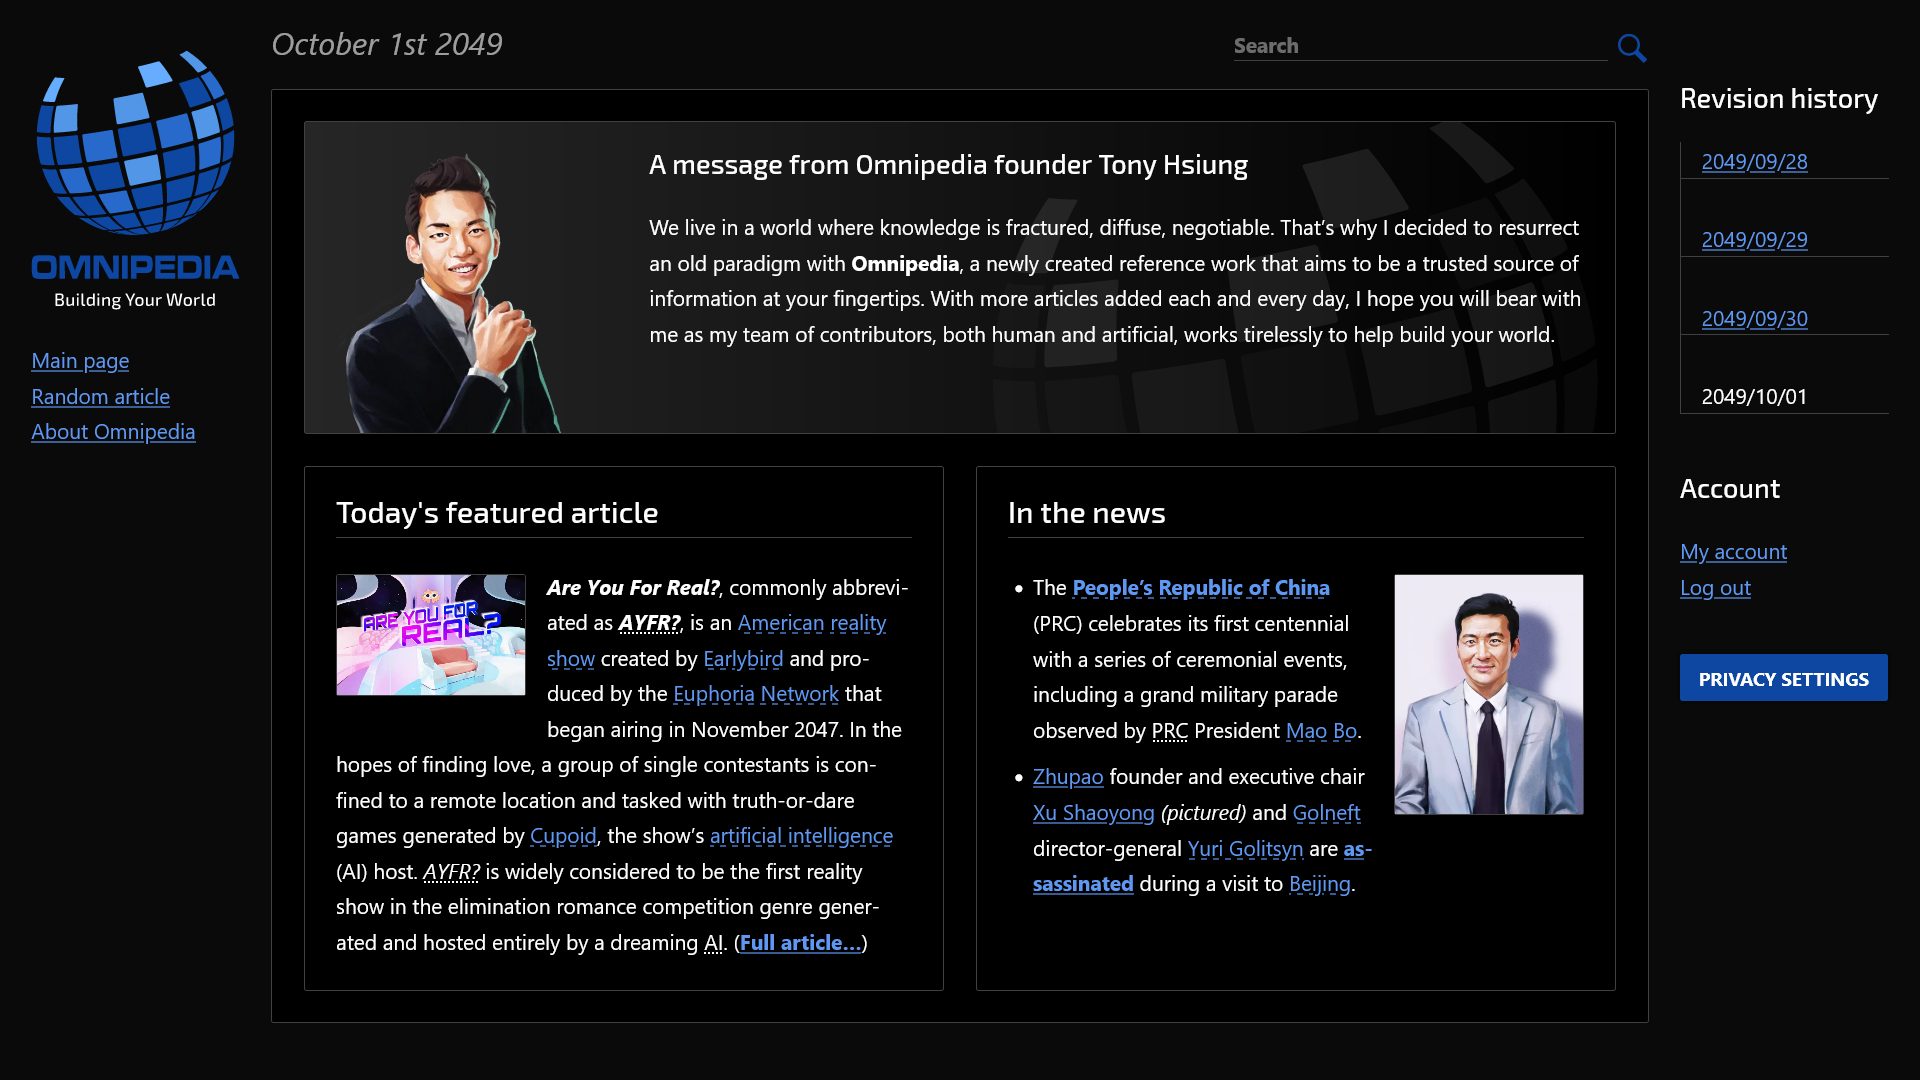
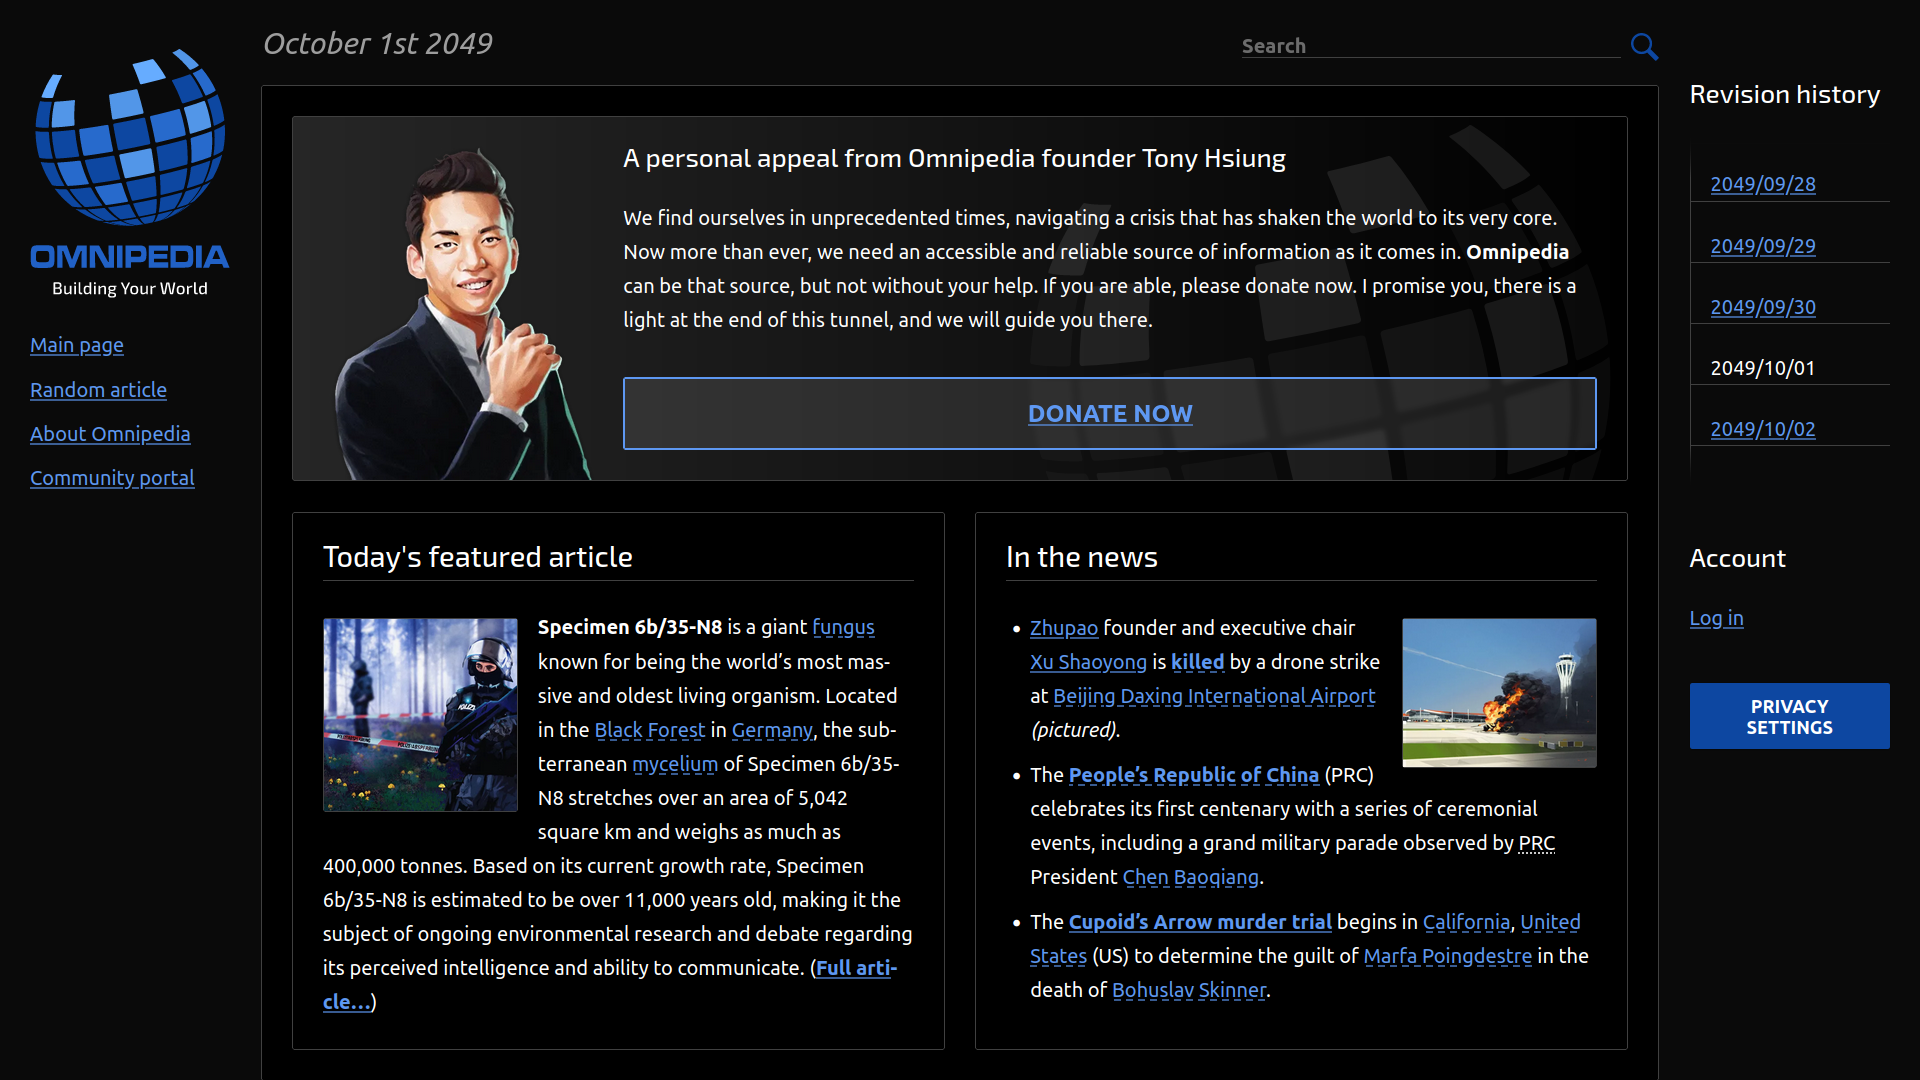
Updated 3 out of 4 Features section screenshots for 2.049 re-release.

diff --git a/web/index.htm b/web/index.htm
@@ -127,11 +127,11 @@
             <h3 class="features-section__heading" id="features-heading-section1" aria-label="Futuristic wiki">Futuristic wiki</h3>
 
             <div class="features-section__media" id="features-media-section1" aria-labelledby="features-media-element-section1">
-              <a href="images/screenshots/optimized/2049-09-28_Main_Page_light.jpg?v=1" class="external-link ambientimpact-is-image-link ambientimpact-link-has-image" target="_blank" rel="noopener noreferrer" data-colour-scheme="light" data-photoswipe-linked-width="1920" data-photoswipe-linked-height="1080">
-                <img src="images/screenshots/thumbnails/2049-09-28_Main_Page_light.jpg?v=1" width="800" height="450" loading="lazy" alt="A screenshot of the Omnipedia main page on September 28th, 2049, in a light colour scheme: a message from the founder, an excerpt of an article, and a few news items of the day." id="features-media-element-section1" />
+              <a href="images/screenshots/optimized/2049-10-01_Main_Page_light.jpg?v=2" class="external-link ambientimpact-is-image-link ambientimpact-link-has-image" target="_blank" rel="noopener noreferrer" data-colour-scheme="light" data-photoswipe-linked-width="1920" data-photoswipe-linked-height="1080">
+                <img src="images/screenshots/thumbnails/2049-10-01_Main_Page_light.jpg?v=2" width="800" height="450" loading="lazy" alt="A screenshot of the Omnipedia main page on October 1st, 2049: a message from the founder, an excerpt of an article, and a few news items of the day." id="features-media-element-section1" />
               </a>
-              <a href="images/screenshots/optimized/2049-09-28_Main_Page_dark.jpg?v=1" class="external-link ambientimpact-is-image-link ambientimpact-link-has-image" target="_blank" rel="noopener noreferrer" data-colour-scheme="dark" data-photoswipe-linked-width="1920" data-photoswipe-linked-height="1080">
-                <img src="images/screenshots/thumbnails/2049-09-28_Main_Page_dark.jpg?v=1" width="800" height="450" loading="lazy" alt="A screenshot of the Omnipedia main page on September 28th, 2049, in a dark colour scheme: a message from the founder, an excerpt of an article, and a few news items of the day." />
+              <a href="images/screenshots/optimized/2049-10-01_Main_Page_dark.jpg?v=2" class="external-link ambientimpact-is-image-link ambientimpact-link-has-image" target="_blank" rel="noopener noreferrer" data-colour-scheme="dark" data-photoswipe-linked-width="1920" data-photoswipe-linked-height="1080">
+                <img src="images/screenshots/thumbnails/2049-10-01_Main_Page_dark.jpg?v=2" width="800" height="450" loading="lazy" alt="A screenshot of the Omnipedia main page on October 1st, 2049: a message from the founder, an excerpt of an article, and a few news items of the day." />
               </a>
             </div>
 
@@ -144,11 +144,11 @@
             <h3 class="features-section__heading" id="features-heading-section2" aria-label="Visionary sci-fi">Visionary sci-fi</h3>
 
             <div class="features-section__media" id="features-media-section2" aria-labelledby="features-media-element-section2">
-              <a href="images/screenshots/optimized/2049-09-29_Cariappa-Muren_disease_light.jpg?v=2" class="external-link ambientimpact-is-image-link ambientimpact-link-has-image" target="_blank" rel="noopener noreferrer" data-colour-scheme="light" data-photoswipe-linked-width="1920" data-photoswipe-linked-height="1080">
-                <img src="images/screenshots/thumbnails/2049-09-29_Cariappa-Muren_disease_light.jpg?v=2" width="800" height="450" loading="lazy" alt="A screenshot of the Omnipedia article on Cariappa-Muren disease on September 29th, 2049, in a light colour scheme: several paragraphs of text alongside a box containing details about the disease; a term is highlighted in the main body with a pop-up displaying a short descriptive paragraph about it." id="features-media-element-section2" />
+              <a href="images/screenshots/optimized/2049-10-01_Cariappa-Muren_disease_light.jpg?v=1" class="external-link ambientimpact-is-image-link ambientimpact-link-has-image" target="_blank" rel="noopener noreferrer" data-colour-scheme="light" data-photoswipe-linked-width="1920" data-photoswipe-linked-height="1080">
+                <img src="images/screenshots/thumbnails/2049-10-01_Cariappa-Muren_disease_light.jpg?v=1" width="800" height="450" loading="lazy" alt="A screenshot of the Omnipedia article on Cariappa-Muren disease: several paragraphs of text alongside a box containing details about the disease; a term is highlighted in the main body with a pop-up displaying a short descriptive paragraph about it." id="features-media-element-section2" />
               </a>
-              <a href="images/screenshots/optimized/2049-09-29_Cariappa-Muren_disease_dark.jpg?v=2" class="external-link ambientimpact-is-image-link ambientimpact-link-has-image" target="_blank" rel="noopener noreferrer" data-colour-scheme="dark" data-photoswipe-linked-width="1920" data-photoswipe-linked-height="1080">
-                <img src="images/screenshots/thumbnails/2049-09-29_Cariappa-Muren_disease_dark.jpg?v=2" width="800" height="450" loading="lazy" alt="A screenshot of Omnipedia article on Cariappa-Muren disease on September 29th, 2049, in a dark colour scheme: several paragraphs of text alongside a box containing details about the disease; a term is highlighted in the main body with a pop-up displaying a short descriptive paragraph about it." id="features-media-element-section2" />
+              <a href="images/screenshots/optimized/2049-10-01_Cariappa-Muren_disease_dark.jpg?v=1" class="external-link ambientimpact-is-image-link ambientimpact-link-has-image" target="_blank" rel="noopener noreferrer" data-colour-scheme="dark" data-photoswipe-linked-width="1920" data-photoswipe-linked-height="1080">
+                <img src="images/screenshots/thumbnails/2049-10-01_Cariappa-Muren_disease_dark.jpg?v=1" width="800" height="450" loading="lazy" alt="A screenshot of Omnipedia article on Cariappa-Muren disease: several paragraphs of text alongside a box containing details about the disease; a term is highlighted in the main body with a pop-up displaying a short descriptive paragraph about it." id="features-media-element-section2" />
               </a>
             </div>
 
@@ -161,11 +161,11 @@
             <h3 class="features-section__heading" id="features-heading-section3" aria-label="Murder mystery">Murder mystery</h3>
 
             <div class="features-section__media" id="features-media-section3" aria-labelledby="features-media-element-section3">
-              <a href="images/screenshots/optimized/2049-09-30_Xu_Shaoyong_light.jpg?v=1" class="external-link ambientimpact-is-image-link ambientimpact-link-has-image" target="_blank" rel="noopener noreferrer" data-colour-scheme="light" data-photoswipe-linked-width="1920" data-photoswipe-linked-height="1080">
-                <img src="images/screenshots/thumbnails/2049-09-30_Xu_Shaoyong_light.jpg?v=1" width="800" height="450" loading="lazy" alt="A screenshot of Omnipedia article on Xu Shaoyong on September 30th, 2049, in a light colour scheme: several paragraphs of text alongside a box containing a headshot and details about the individual." id="features-media-element-section3" />
+              <a href="images/screenshots/optimized/2049-10-01_Xu_Shaoyong_changes_light.jpg?v=1" class="external-link ambientimpact-is-image-link ambientimpact-link-has-image" target="_blank" rel="noopener noreferrer" data-colour-scheme="light" data-photoswipe-linked-width="1920" data-photoswipe-linked-height="1080">
+                <img src="images/screenshots/thumbnails/2049-10-01_Xu_Shaoyong_changes_light.jpg?v=1" width="800" height="450" loading="lazy" alt="A screenshot of Omnipedia article on Xu Shaoyong on October 1st, 2049 with a newly added paragraph highlighted; the paragraph describes the recent death of Xu and ongoing investigation." id="features-media-element-section3" />
               </a>
-              <a href="images/screenshots/optimized/2049-09-30_Xu_Shaoyong_dark.jpg?v=1" class="external-link ambientimpact-is-image-link ambientimpact-link-has-image" target="_blank" rel="noopener noreferrer" data-colour-scheme="dark" data-photoswipe-linked-width="1920" data-photoswipe-linked-height="1080">
-                <img src="images/screenshots/thumbnails/2049-09-30_Xu_Shaoyong_dark.jpg?v=1" width="800" height="450" loading="lazy" alt="A screenshot of Omnipedia article on Xu Shaoyong on September 30th, 2049, in a dark colour scheme: several paragraphs of text alongside a box containing a headshot and details about the individual." id="features-media-element-section3" />
+              <a href="images/screenshots/optimized/2049-10-01_Xu_Shaoyong_changes_dark.jpg?v=1" class="external-link ambientimpact-is-image-link ambientimpact-link-has-image" target="_blank" rel="noopener noreferrer" data-colour-scheme="dark" data-photoswipe-linked-width="1920" data-photoswipe-linked-height="1080">
+                <img src="images/screenshots/thumbnails/2049-10-01_Xu_Shaoyong_changes_dark.jpg?v=1" width="800" height="450" loading="lazy" alt="A screenshot of Omnipedia article on Xu Shaoyong on October 1st, 2049 with a newly added paragraph highlighted; the paragraph describes the recent death of Xu and ongoing investigation." id="features-media-element-section3" />
               </a>
             </div>
 
@@ -177,14 +177,14 @@
           <div class="layout-section__sub-section features-section" aria-labelledby="features-heading-section4" aria-describedby="features-description-section4">
             <h3 class="features-section__heading" id="features-heading-section4" aria-label="Community building browser">Community building</h3>
 
-            <div class="features-section__media" id="features-media-section4" aria-labelledby="features-media-element-section4">
+            <!-- <div class="features-section__media" id="features-media-section4" aria-labelledby="features-media-element-section4">
               <a href="images/screenshots/optimized/2049-10-01_Main_Page_light.jpg?v=2" class="external-link ambientimpact-is-image-link ambientimpact-link-has-image" target="_blank" rel="noopener noreferrer" data-colour-scheme="light" data-photoswipe-linked-width="1920" data-photoswipe-linked-height="1080">
                 <img src="images/screenshots/thumbnails/2049-10-01_Main_Page_light.jpg?v=2" width="800" height="450" loading="lazy" alt="A screenshot of the Omnipedia main page on October 1st, 2049, in a light colour scheme: a message from the founder, an excerpt of an article, and a few news items of the day." id="features-media-element-section4" />
               </a>
               <a href="images/screenshots/optimized/2049-10-01_Main_Page_dark.jpg?v=2" class="external-link ambientimpact-is-image-link ambientimpact-link-has-image" target="_blank" rel="noopener noreferrer" data-colour-scheme="dark" data-photoswipe-linked-width="1920" data-photoswipe-linked-height="1080">
                 <img src="images/screenshots/thumbnails/2049-10-01_Main_Page_dark.jpg?v=2" width="800" height="450" loading="lazy" alt="A screenshot of the Omnipedia main page on October 1st, 2049, in a dark colour scheme: a message from the founder, an excerpt of an article, and a few news items of the day." id="features-media-element-section4" />
               </a>
-            </div>
+            </div> -->
 
             <div class="features-section__description" id="features-description-section4">
               <p><em>Neurocracy</em> offers an array of tools and resources to empower your collaborative investigations: a community forum (shaped like Talk Pages) to discuss clues and theories, and a dynamic conspiracy board that draws information directly from Omnipedia. Using these tools enables you to leverage your collective imaginations and play an active role in building the world of <em>Neurocracy</em> together.</p>
